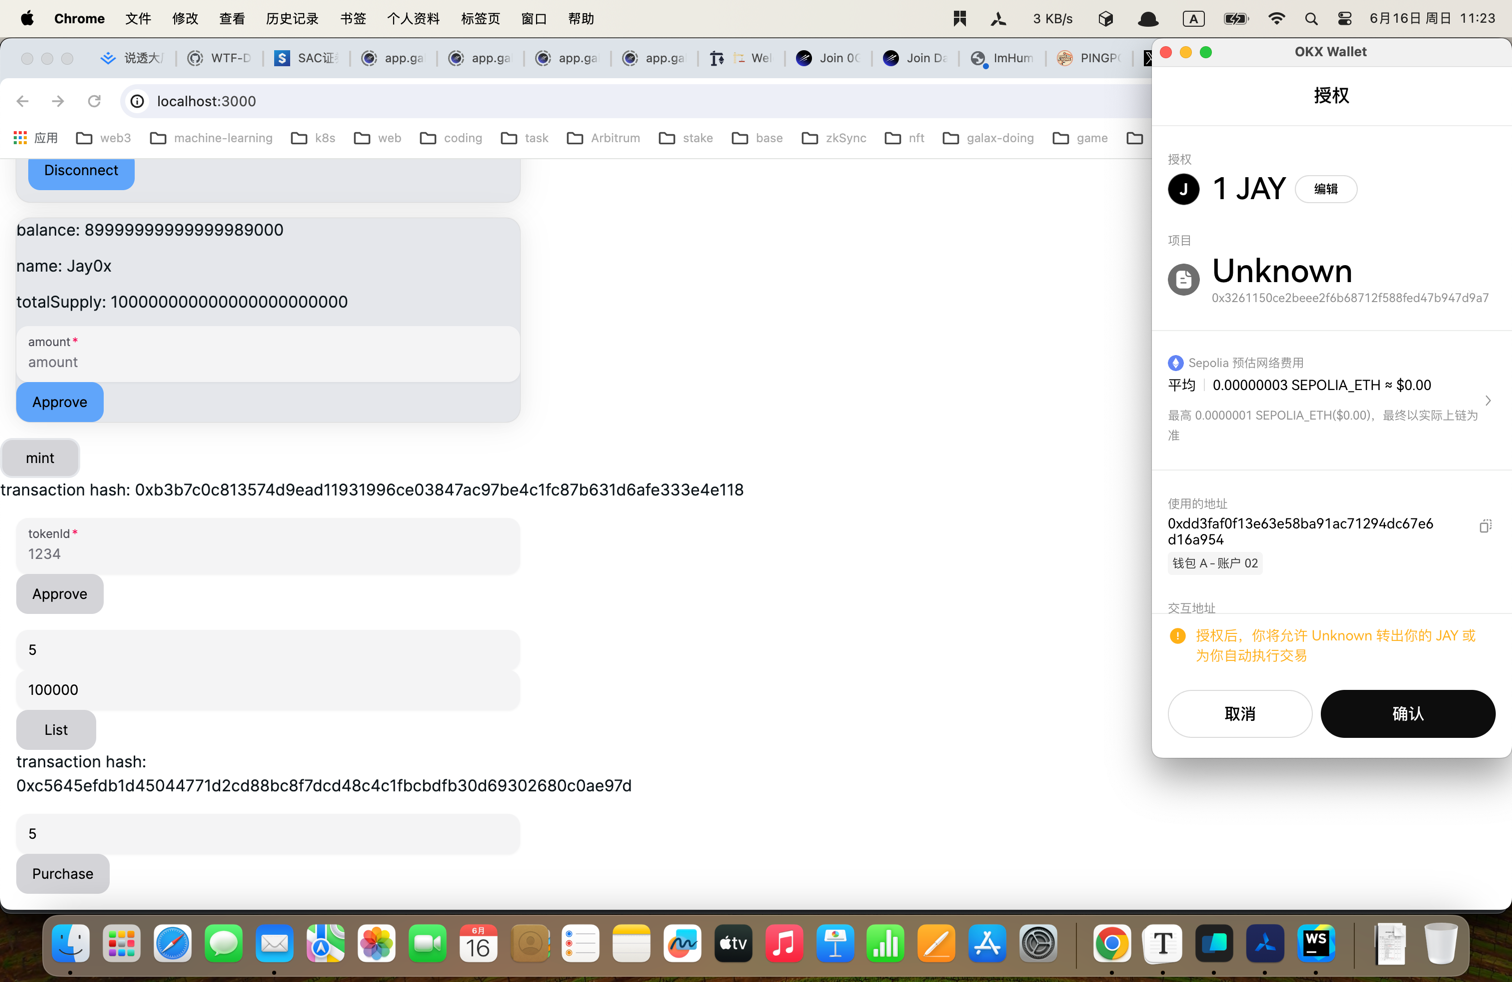
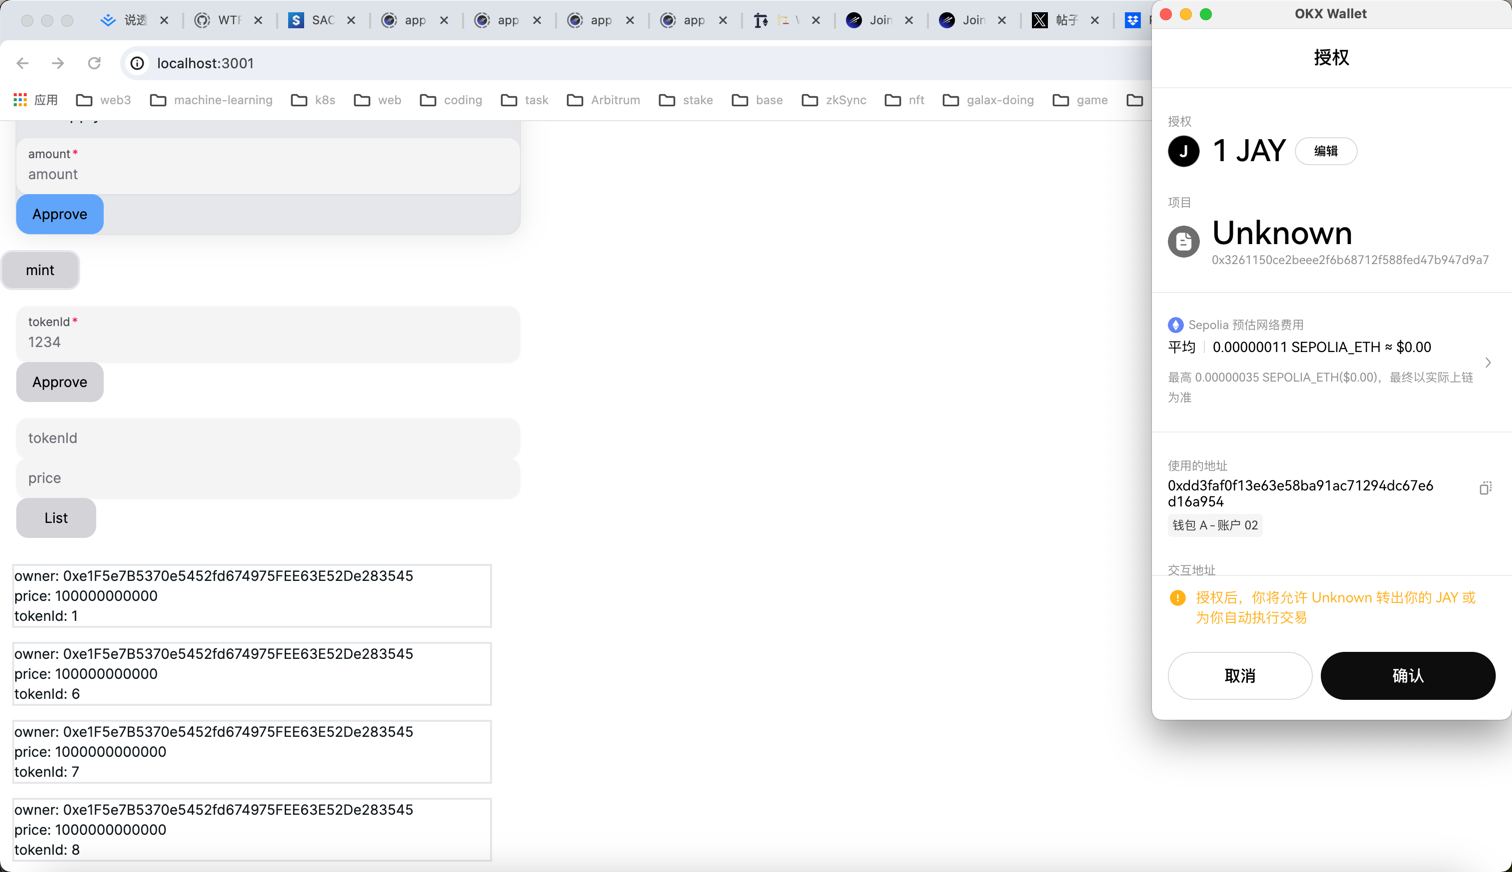
feat: nft list

diff --git a/members/zpjayyy/task4/my-nft-market-app/components/NftMarketContract.tsx b/members/zpjayyy/task4/my-nft-market-app/components/NftMarketContract.tsx
@@ -142,7 +142,7 @@ function ListNft() {
   }
 
   return (
-    <div>
+    <div className="w-1/3">
       <Listbox
         items={orderList}
         aria-label="Dynamic Actions"
@@ -153,7 +153,7 @@ function ListNft() {
       >
         {(item) => (
           <ListboxItem key={item.tokenId.toString()}>
-            <div>
+            <div className="flex flex-col border-2 border-gray-200">
               <p>owner: {item.address}</p>
               <p>price: {item.price.toString()}</p>
               <p>tokenId: {item.tokenId.toString()}</p>
